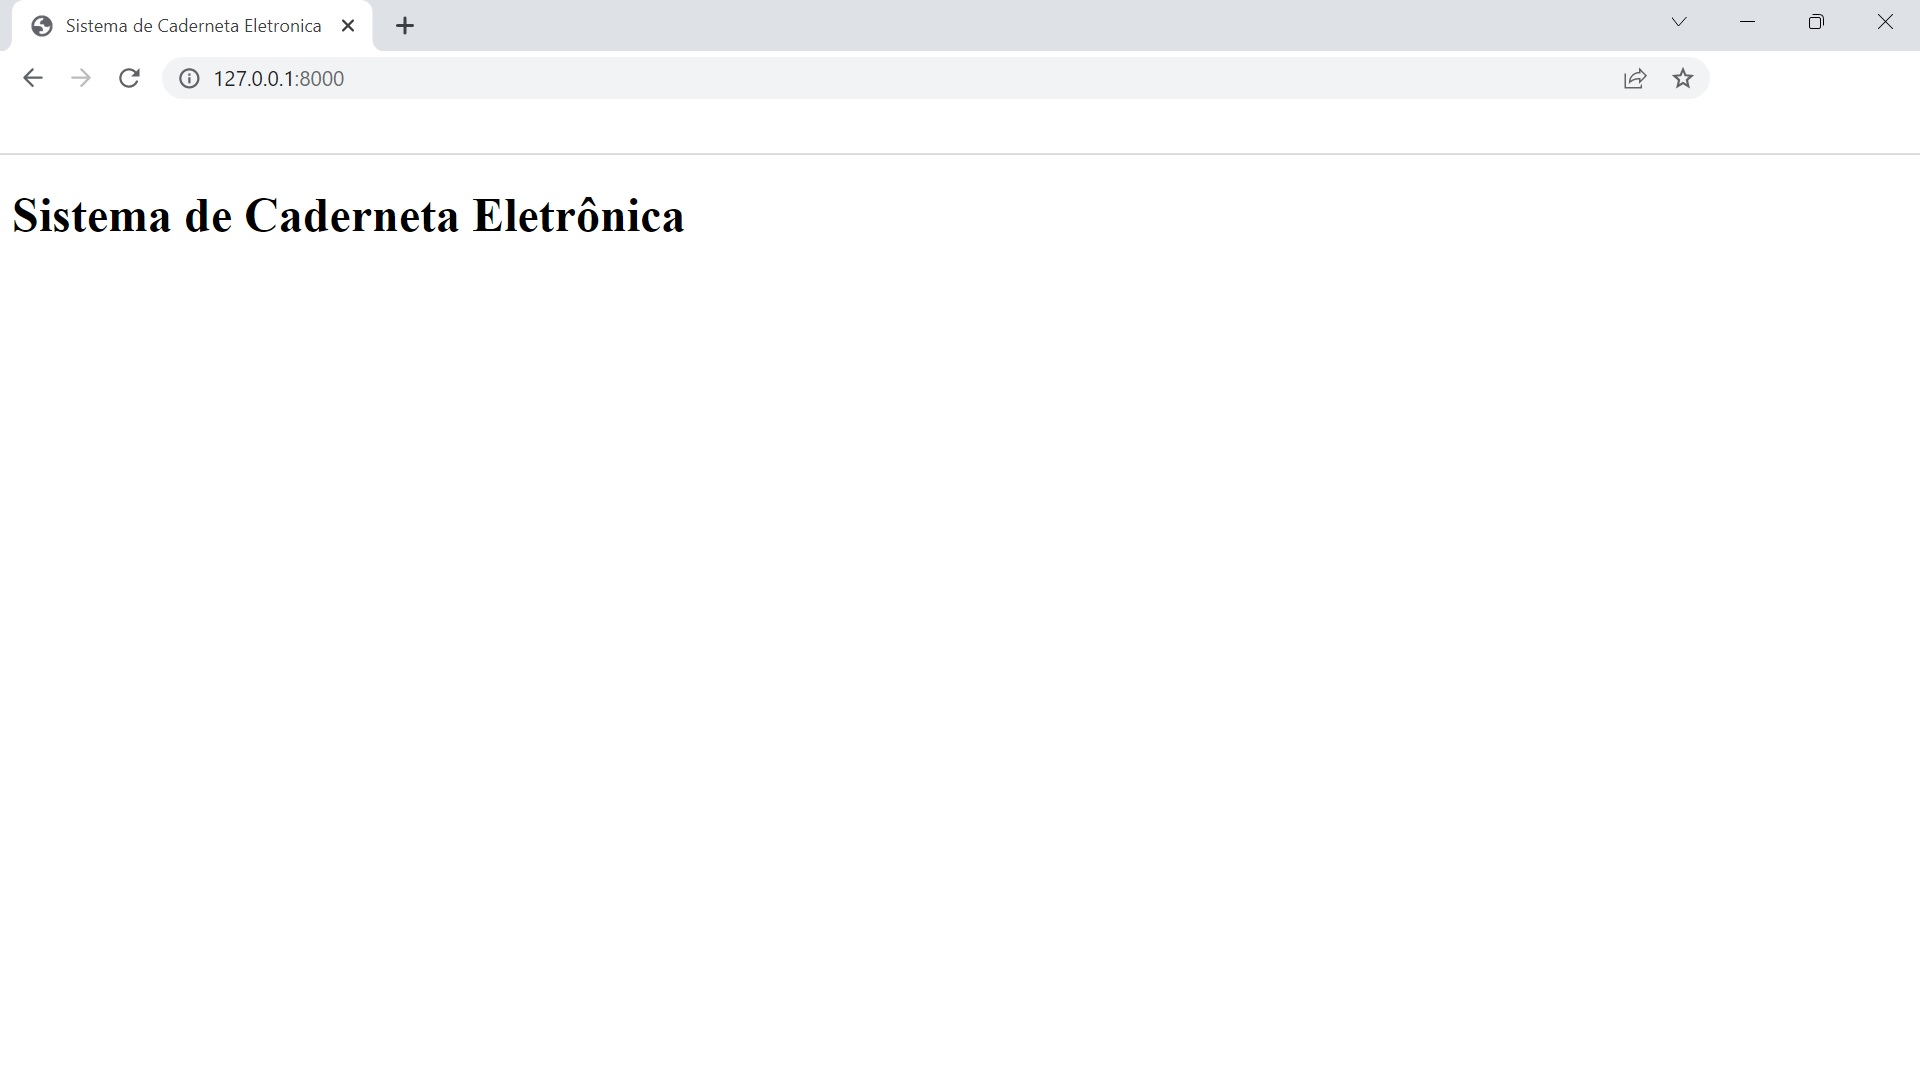
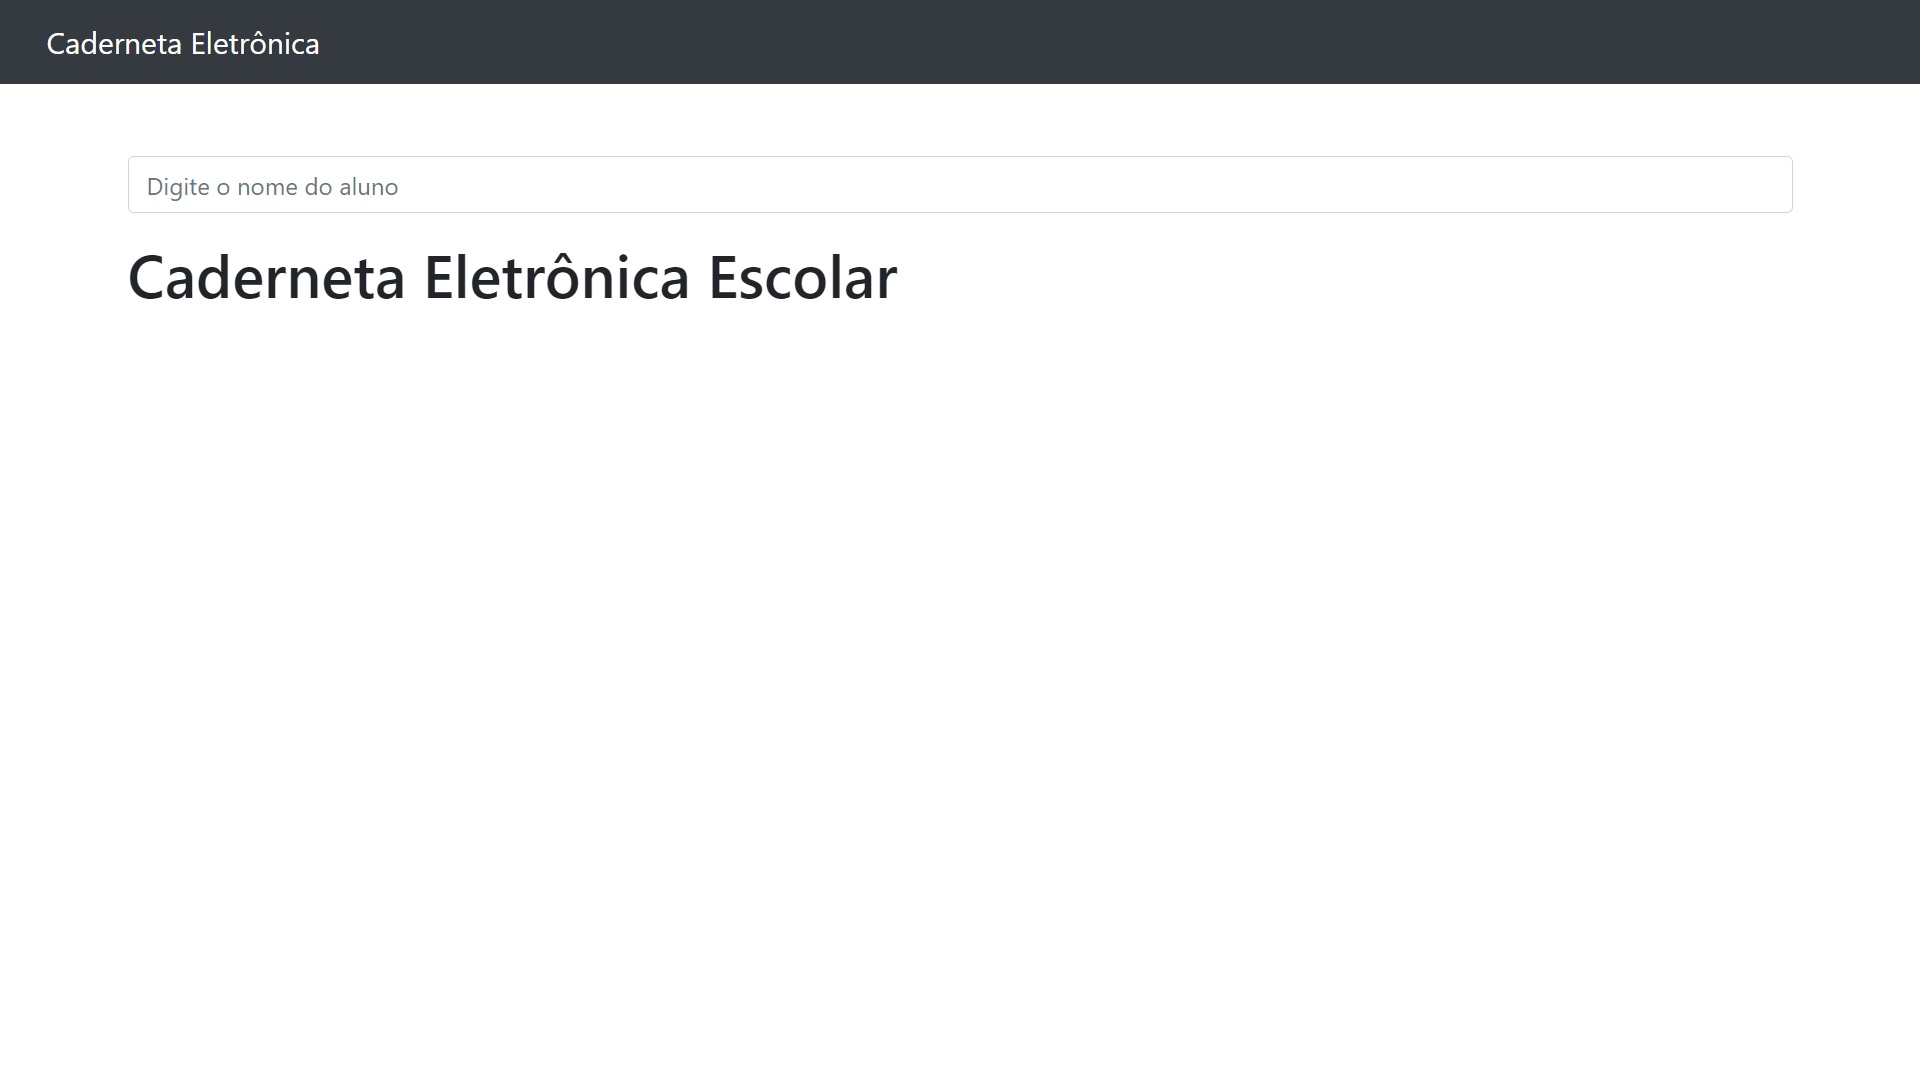
Alterando arquivos de midia do projeto

Changed region(s): [[0.0, 0.0, 1.0, 0.0917], [0.0, 0.1528, 0.4688, 0.275]]

diff --git a/caderneta/templates/caderneta/index.html b/caderneta/templates/caderneta/index.html
@@ -1,5 +1,5 @@
 {% extends 'base.html' %}
 
 {%block conteudo%}
-    <h1>teste agenda 123</h1>
+    <h1>Caderneta Eletrônica Escolar</h1>
 {%endblock%}
